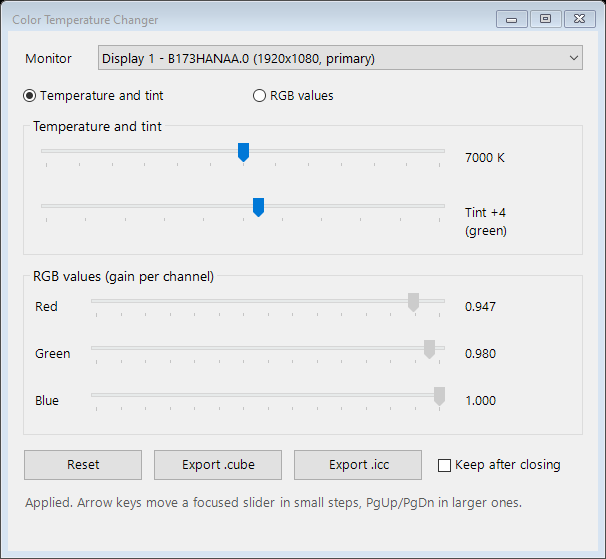
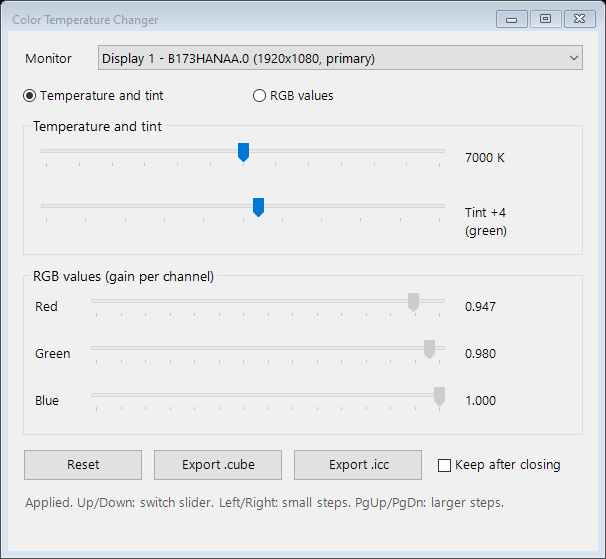
Use Up/Down to cycle between sliders
Up/Down now moves focus to the previous or next enabled slider,
wrapping around at both ends, instead of changing the value.
Left/Right and PgUp/PgDn still adjust values. Update the status
hint, README and screenshot to match.

Changed region(s): [[0.1188, 0.8819, 0.8614, 0.9123]]

diff --git a/README.md b/README.md
@@ -42,7 +42,7 @@ irm https://raw.githubusercontent.com/korcankaraokcu/color-temperature-changer/m
 No admin rights are needed.
 
 **Controls:**
-- Click a slider, then use the **arrow keys** for small steps and **PgUp/PgDn** for larger ones.
+- Click a slider, then use **Left/Right** for small steps and **PgUp/PgDn** for larger ones. **Up/Down** moves to the previous or next slider.
 - **Double-click a slider's thumb**, or **right-click the slider → Reset**, to reset just that slider: 6500 K, tint 0, or RGB 1.000.
 - **Reset** returns the selected display to 6500 K and tint 0, which is no change.
 - When you **close the window**, every display it changed goes back to normal, unless **Keep after closing** is checked.
